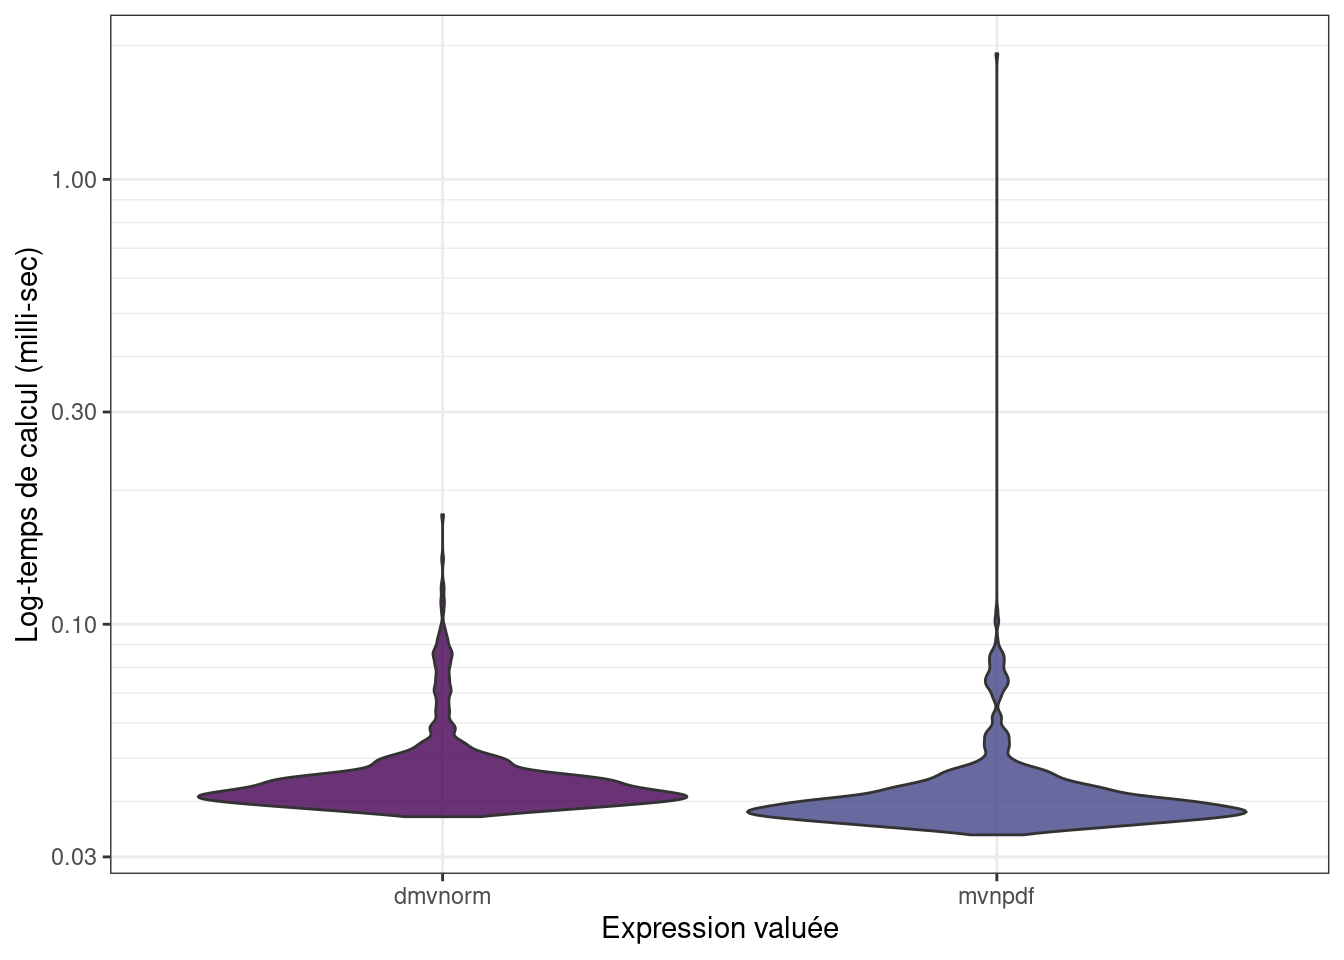
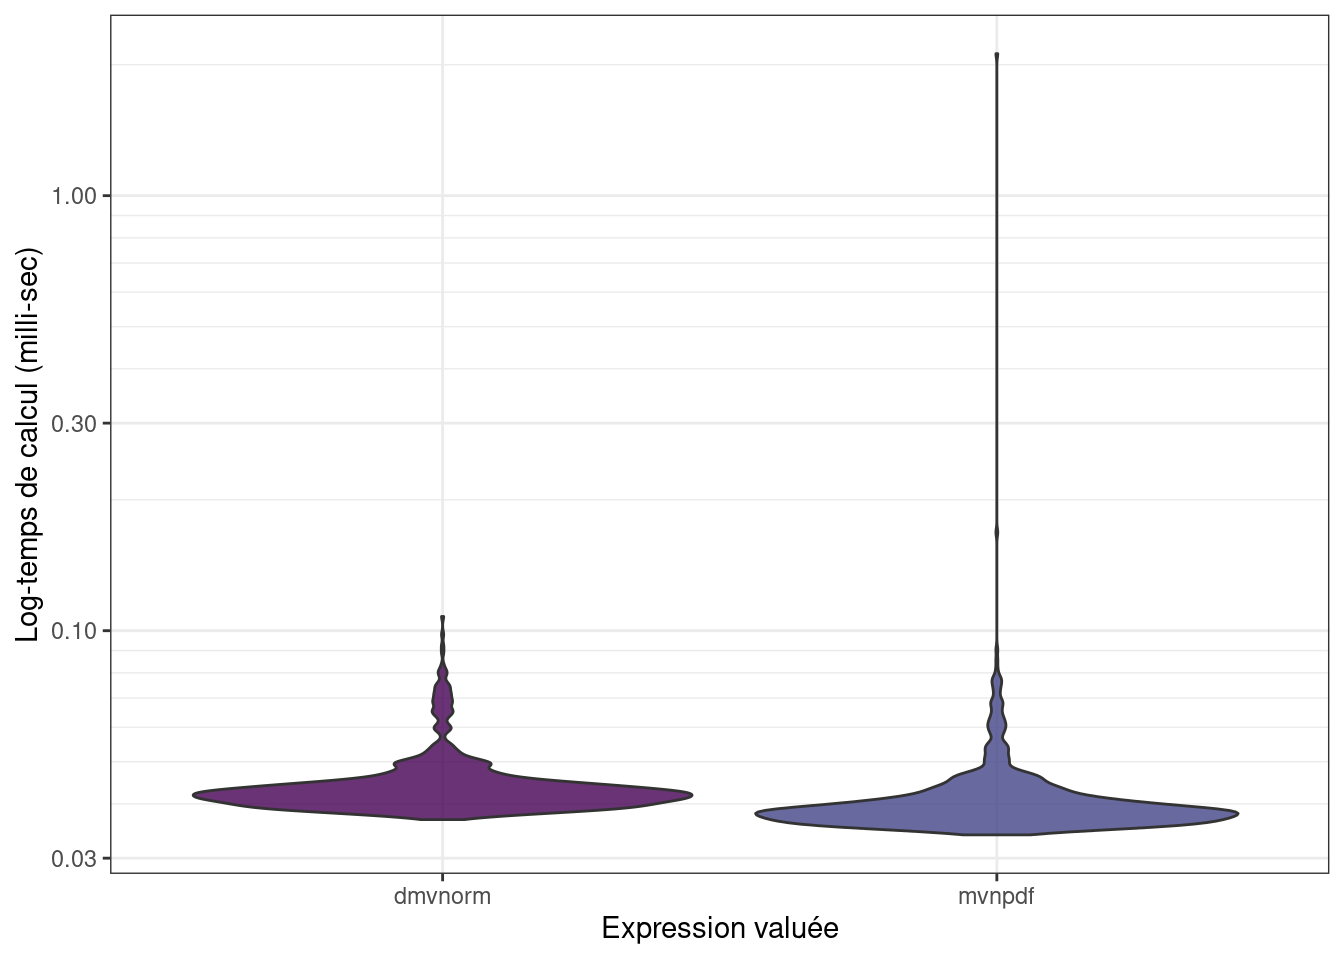
some minor modifications part 2 (package) and 3 (github), and replace devtools:: by usethis:: where needed in the package part

diff --git a/_book/profiler-son-code.html b/_book/profiler-son-code.html
@@ -272,11 +272,11 @@ fine ce qui prend du temps dans notre fonction.</p>
 <span id="cb23-5"><a href="profiler-son-code.html#cb23-5" aria-hidden="true" tabindex="-1"></a>mb</span></code></pre></div>
 <pre><code>## Unit: milliseconds
 ##                                                            expr      min
-##       mvnpdf(x = matrix(1.96, nrow = 2, ncol = n), Log = FALSE) 4.896913
-##  mvnpdfsmart(x = matrix(1.96, nrow = 2, ncol = n), Log = FALSE) 3.766482
+##       mvnpdf(x = matrix(1.96, nrow = 2, ncol = n), Log = FALSE) 4.761481
+##  mvnpdfsmart(x = matrix(1.96, nrow = 2, ncol = n), Log = FALSE) 3.708987
 ##        lq     mean   median       uq       max neval
-##  5.108208 5.608101 5.199305 5.352341  9.419278   100
-##  3.932840 4.285558 4.027911 4.153603 14.962139   100</code></pre>
+##  5.008102 5.400211 5.070689 5.171907 15.984148   100
+##  3.854655 4.196747 3.951181 3.997736  8.089263   100</code></pre>
 <pre><code>## Warning: It is deprecated to specify `guide = FALSE` to remove a guide. Please
 ## use `guide = &quot;none&quot;` instead.</code></pre>
 <p><img src="FormationRavancee_dev_perf_files/figure-html/unnamed-chunk-22-1.png" width="672" /></p>
@@ -289,13 +289,13 @@ fine ce qui prend du temps dans notre fonction.</p>
 <span id="cb26-6"><a href="profiler-son-code.html#cb26-6" aria-hidden="true" tabindex="-1"></a>mb</span></code></pre></div>
 <pre><code>## Unit: microseconds
 ##                                                            expr      min
-##              mvtnorm::dmvnorm(matrix(1.96, nrow = n, ncol = 2))   68.127
-##       mvnpdf(x = matrix(1.96, nrow = 2, ncol = n), Log = FALSE) 4836.487
-##  mvnpdfsmart(x = matrix(1.96, nrow = 2, ncol = n), Log = FALSE) 3704.812
+##              mvtnorm::dmvnorm(matrix(1.96, nrow = n, ncol = 2))   66.785
+##       mvnpdf(x = matrix(1.96, nrow = 2, ncol = n), Log = FALSE) 4759.949
+##  mvnpdfsmart(x = matrix(1.96, nrow = 2, ncol = n), Log = FALSE) 3684.245
 ##        lq      mean   median        uq      max neval
-##    84.543  121.1487  119.853  141.9805  297.272   100
-##  4945.957 5429.2506 5034.401 5168.9745 9863.086   100
-##  3788.747 3987.8099 3846.220 3939.1600 7331.032   100</code></pre>
+##    80.654  103.6592   96.005  116.1385  452.566   100
+##  4844.001 5268.1721 4878.425 4919.1220 9076.515   100
+##  3726.802 3808.9192 3740.765 3764.1380 7314.098   100</code></pre>
 <pre><code>## Warning: It is deprecated to specify `guide = FALSE` to remove a guide. Please
 ## use `guide = &quot;none&quot;` instead.</code></pre>
 <p><img src="FormationRavancee_dev_perf_files/figure-html/unnamed-chunk-24-1.png" width="672" /></p>
@@ -320,15 +320,15 @@ fonction :</p>
 <span id="cb30-7"><a href="profiler-son-code.html#cb30-7" aria-hidden="true" tabindex="-1"></a>mb</span></code></pre></div>
 <pre><code>## Unit: microseconds
 ##                                                            expr      min
-##              mvtnorm::dmvnorm(matrix(1.96, nrow = n, ncol = 2))   72.596
-##       mvnpdf(x = matrix(1.96, nrow = 2, ncol = n), Log = FALSE) 4941.375
-##  mvnpdfsmart(x = matrix(1.96, nrow = 2, ncol = n), Log = FALSE) 3732.640
-##  mvnpdfoptim(x = matrix(1.96, nrow = 2, ncol = n), Log = FALSE) 2860.118
-##         lq      mean   median       uq      max neval
-##   102.4365  127.4794  124.147  142.829  469.250   100
-##  5159.8165 5479.0987 5241.521 5392.817 9589.730   100
-##  3914.5410 4219.8890 4033.341 4145.319 8025.523   100
-##  3076.2195 3420.8407 3181.880 3264.097 7810.673   100</code></pre>
+##              mvtnorm::dmvnorm(matrix(1.96, nrow = n, ncol = 2))   71.342
+##       mvnpdf(x = matrix(1.96, nrow = 2, ncol = n), Log = FALSE) 4818.789
+##  mvnpdfsmart(x = matrix(1.96, nrow = 2, ncol = n), Log = FALSE) 3705.680
+##  mvnpdfoptim(x = matrix(1.96, nrow = 2, ncol = n), Log = FALSE) 2881.334
+##         lq      mean   median        uq      max neval
+##    89.2115  111.8894  107.915  124.7275  427.401   100
+##  5032.6220 5309.6484 5083.812 5158.1440 9531.178   100
+##  3867.6470 4057.3027 3970.555 4004.6555 7969.330   100
+##  3058.3425 3332.5979 3157.409 3214.0580 7918.354   100</code></pre>
 <pre><code>## Warning: It is deprecated to specify `guide = FALSE` to remove a guide. Please
 ## use `guide = &quot;none&quot;` instead.</code></pre>
 <p><img src="FormationRavancee_dev_perf_files/figure-html/unnamed-chunk-27-1.png" width="672" /></p>

diff --git a/_book/rcpp-ou-comment-intégrer-facilement-du-code-cdans-un-package-r.html b/_book/rcpp-ou-comment-intégrer-facilement-du-code-cdans-un-package-r.html
@@ -317,17 +317,17 @@ uniquement les calculs d’inverse matriciel par un appel à <code>invC</code>.<
 <span id="cb36-8"><a href="rcpp-ou-comment-intégrer-facilement-du-code-cdans-un-package-r.html#cb36-8" aria-hidden="true" tabindex="-1"></a>mb</span></code></pre></div>
 <pre><code>## Unit: microseconds
 ##                                                            expr      min
-##              mvtnorm::dmvnorm(matrix(1.96, nrow = n, ncol = 2))   74.165
-##       mvnpdf(x = matrix(1.96, nrow = 2, ncol = n), Log = FALSE) 4848.551
-##  mvnpdfsmart(x = matrix(1.96, nrow = 2, ncol = n), Log = FALSE) 3749.143
-##  mvnpdfoptim(x = matrix(1.96, nrow = 2, ncol = n), Log = FALSE) 2870.868
-##  mvnpdf_invC(x = matrix(1.96, nrow = 2, ncol = n), Log = FALSE) 3735.114
-##        lq      mean    median       uq       max neval
-##   114.532  136.9749  127.8535  142.003   350.228   100
-##  5084.296 5332.9551 5184.1990 5304.572 10547.294   100
-##  3907.660 4222.6815 4001.1580 4088.385  7650.630   100
-##  3107.472 3306.4238 3158.8890 3239.511  7142.811   100
-##  3919.252 4282.8197 4004.7295 4069.599  8006.818   100</code></pre>
+##              mvtnorm::dmvnorm(matrix(1.96, nrow = n, ncol = 2))   70.072
+##       mvnpdf(x = matrix(1.96, nrow = 2, ncol = n), Log = FALSE) 4770.047
+##  mvnpdfsmart(x = matrix(1.96, nrow = 2, ncol = n), Log = FALSE) 3719.237
+##  mvnpdfoptim(x = matrix(1.96, nrow = 2, ncol = n), Log = FALSE) 2859.519
+##  mvnpdf_invC(x = matrix(1.96, nrow = 2, ncol = n), Log = FALSE) 3661.896
+##        lq      mean    median        uq      max neval
+##    87.826  113.5134  114.1855  121.8305  292.938   100
+##  4961.408 5226.4926 5001.5475 5055.4780 9521.444   100
+##  3865.106 4122.0188 3961.5705 3987.6280 7888.414   100
+##  3035.417 3335.0104 3150.9085 3207.4010 7149.031   100
+##  3826.576 3973.3513 3918.2360 3954.5195 7544.528   100</code></pre>
 <pre><code>## Warning: It is deprecated to specify `guide = FALSE` to remove a guide. Please
 ## use `guide = &quot;none&quot;` instead.</code></pre>
 <p><img src="FormationRavancee_dev_perf_files/figure-html/unnamed-chunk-33-1.png" width="672" /></p>
@@ -368,13 +368,13 @@ de densité de la loi Normale multivariée <code>mvnpdfC()</code>.</p></li>
 ##                                        mvnpdfoptim(x = matrix(1.96, nrow = 2, ncol = n), Log = FALSE)
 ##                                        mvnpdf_invC(x = matrix(1.96, nrow = 2, ncol = n), Log = FALSE)
 ##  mvnpdfC(x = matrix(1.96, nrow = 2, ncol = n), mean = rep(0, 2),      varcovM = diag(2), Log = FALSE)
-##       min       lq      mean    median        uq       max neval
-##    68.534   99.583  125.0424  124.8475  144.4685   257.476   100
-##  4877.148 5060.544 5456.2258 5167.7915 5311.4680  8730.808   100
-##  3742.300 3854.922 4860.4030 3949.7700 4080.3765 78605.879   100
-##  2847.078 2954.181 3220.6022 3054.5600 3197.9885  7055.950   100
-##  3708.203 3793.417 4189.2766 3888.5095 4079.5600  9039.378   100
-##    32.338   42.896   56.7623   51.1520   56.0145   359.024   100</code></pre>
+##       min       lq       mean   median        uq       max neval
+##    74.109   99.243  127.50051  121.395  134.6505   428.196   100
+##  4774.975 4937.608 5288.60113 5067.954 5180.1415  8725.913   100
+##  3679.502 3739.394 3996.61928 3814.249 3990.8140  7244.329   100
+##  2886.723 2978.227 3299.54818 3129.963 3232.7405  7200.755   100
+##  3634.140 3714.123 4700.75678 3843.012 3962.6730 76847.433   100
+##    31.855   41.613   54.85313   47.478   54.4485   325.568   100</code></pre>
 <pre><code>## Warning: It is deprecated to specify `guide = FALSE` to remove a guide. Please
 ## use `guide = &quot;none&quot;` instead.</code></pre>
 <p><img src="FormationRavancee_dev_perf_files/figure-html/unnamed-chunk-36-1.png" width="672" /></p>

diff --git a/_book/mesurer-et-comparer-des-temps-dexécution.html b/_book/mesurer-et-comparer-des-temps-dexécution.html
@@ -259,7 +259,7 @@ fois la commande.</p>
 on ne peut pas utiliser <code>system.time()</code> :</p>
 <div class="sourceCode" id="cb13"><pre class="sourceCode r"><code class="sourceCode r"><span id="cb13-1"><a href="mesurer-et-comparer-des-temps-dexécution.html#cb13-1" aria-hidden="true" tabindex="-1"></a><span class="fu">system.time</span>(mvtnorm<span class="sc">::</span><span class="fu">dmvnorm</span>(<span class="fu">rep</span>(<span class="fl">1.96</span>, <span class="dv">2</span>)))</span></code></pre></div>
 <pre><code>## utilisateur     système      écoulé 
-##       0.005       0.000       0.005</code></pre>
+##       0.006       0.000       0.006</code></pre>
 <p>On pourrait se dire qu’il faut augmenter la complexité de notre calcul, mais
 il y a mieux : utiliser le package <code>microbenchmark</code> !</p>
 </div>
@@ -276,11 +276,11 @@ commandes et donc va stabiliser le résultat.</p>
 <span id="cb15-5"><a href="mesurer-et-comparer-des-temps-dexécution.html#cb15-5" aria-hidden="true" tabindex="-1"></a>mb</span></code></pre></div>
 <pre><code>## Unit: microseconds
 ##                                           expr    min      lq     mean  median
-##                 mvtnorm::dmvnorm(rep(1.96, 2)) 36.931 40.4725 46.11420 42.7825
-##  mvnpdf(x = matrix(rep(1.96, 2)), Log = FALSE) 33.620 37.2010 43.75758 39.2755
+##                 mvtnorm::dmvnorm(rep(1.96, 2)) 36.794 40.2310 44.23000 42.2955
+##  mvnpdf(x = matrix(rep(1.96, 2)), Log = FALSE) 33.938 36.8305 42.86492 38.6175
 ##       uq      max neval
-##  46.4015  176.315  1000
-##  42.6555 1916.656  1000</code></pre>
+##  44.7680  107.816  1000
+##  41.6215 2120.324  1000</code></pre>
 <pre><code>## Warning: It is deprecated to specify `guide = FALSE` to remove a guide. Please
 ## use `guide = &quot;none&quot;` instead.</code></pre>
 <p><img src="FormationRavancee_dev_perf_files/figure-html/unnamed-chunk-15-1.png" width="672" /></p>
@@ -294,11 +294,11 @@ cas :</p>
 <span id="cb18-5"><a href="mesurer-et-comparer-des-temps-dexécution.html#cb18-5" aria-hidden="true" tabindex="-1"></a>mb</span></code></pre></div>
 <pre><code>## Unit: microseconds
 ##                                                       expr     min       lq
-##         mvtnorm::dmvnorm(matrix(1.96, nrow = n, ncol = 2))  41.743  49.9790
-##  mvnpdf(x = matrix(1.96, nrow = 2, ncol = n), Log = FALSE) 443.564 464.3905
-##       mean   median       uq     max neval
-##   73.40179  57.8050  83.2065 288.442   100
-##  550.00812 492.5485 582.9215 990.393   100</code></pre>
+##         mvtnorm::dmvnorm(matrix(1.96, nrow = n, ncol = 2))  42.793  51.2070
+##  mvnpdf(x = matrix(1.96, nrow = 2, ncol = n), Log = FALSE) 436.569 453.0595
+##       mean   median       uq      max neval
+##   74.19048  58.6055  76.7095  224.503   100
+##  581.72722 534.4020 596.5730 1191.282   100</code></pre>
 <pre><code>## Warning: It is deprecated to specify `guide = FALSE` to remove a guide. Please
 ## use `guide = &quot;none&quot;` instead.</code></pre>
 <p><img src="FormationRavancee_dev_perf_files/figure-html/unnamed-chunk-17-1.png" width="672" /></p>

diff --git a/_book/parallélisation-du-code-r.html b/_book/parallélisation-du-code-r.html
@@ -357,7 +357,7 @@ médiane pour chacune de ces variables.</p>
 <span id="cb46-3"><a href="parallélisation-du-code-r.html#cb46-3" aria-hidden="true" tabindex="-1"></a>}</span>
 <span id="cb46-4"><a href="parallélisation-du-code-r.html#cb46-4" aria-hidden="true" tabindex="-1"></a><span class="fu">system.time</span>(<span class="fu">colmedian_apply</span>(x))</span></code></pre></div>
 <pre><code>## utilisateur     système      écoulé 
-##       2.852       0.000       2.853</code></pre>
+##       2.862       0.000       2.863</code></pre>
 <p>En réalité, une boucle <code>for</code> n’est pas plus lente à condition d’être bien
 programmée :</p>
 <div class="sourceCode" id="cb48"><pre class="sourceCode r"><code class="sourceCode r"><span id="cb48-1"><a href="parallélisation-du-code-r.html#cb48-1" aria-hidden="true" tabindex="-1"></a>colmedian_for <span class="ot">&lt;-</span> <span class="cf">function</span>(x){</span>
@@ -369,7 +369,7 @@ programmée :</p>
 <span id="cb48-7"><a href="parallélisation-du-code-r.html#cb48-7" aria-hidden="true" tabindex="-1"></a>}</span>
 <span id="cb48-8"><a href="parallélisation-du-code-r.html#cb48-8" aria-hidden="true" tabindex="-1"></a><span class="fu">system.time</span>(<span class="fu">colmedian_for</span>(x))</span></code></pre></div>
 <pre><code>## utilisateur     système      écoulé 
-##       2.656       0.008       2.665</code></pre>
+##       2.667       0.000       2.668</code></pre>
 <blockquote>
 <p><strong><em>À vous de jouer !</em></strong><br />
 Essayez d’améliorer encore ce temps de calcul en parallélisant :</p>
